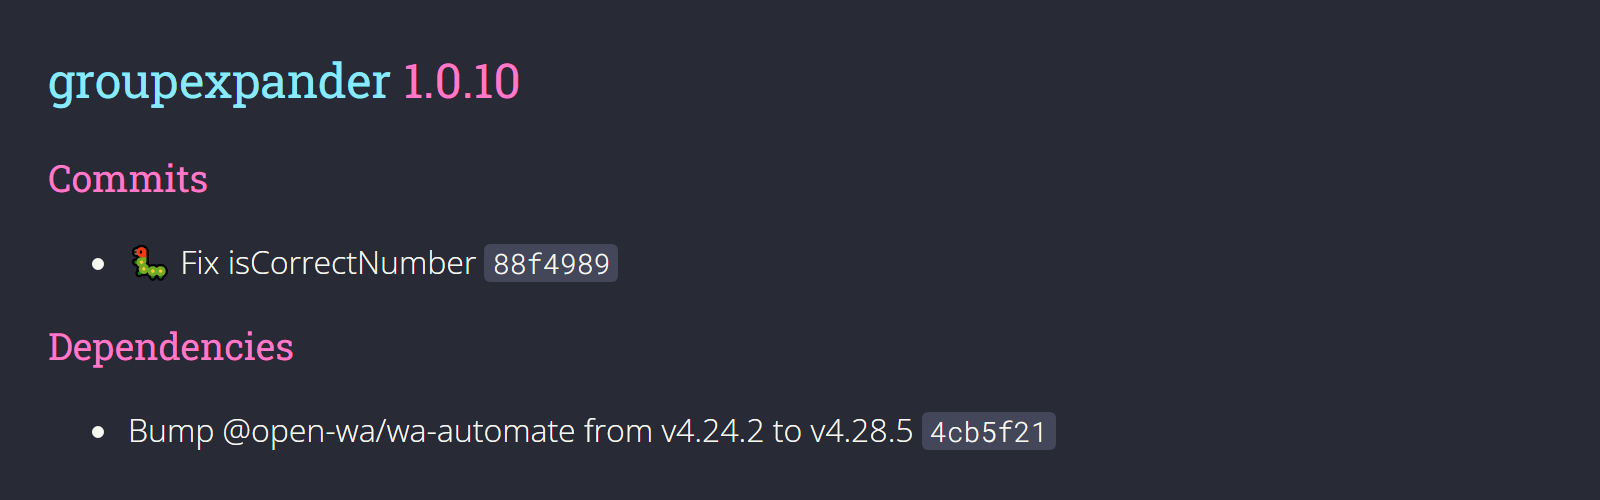
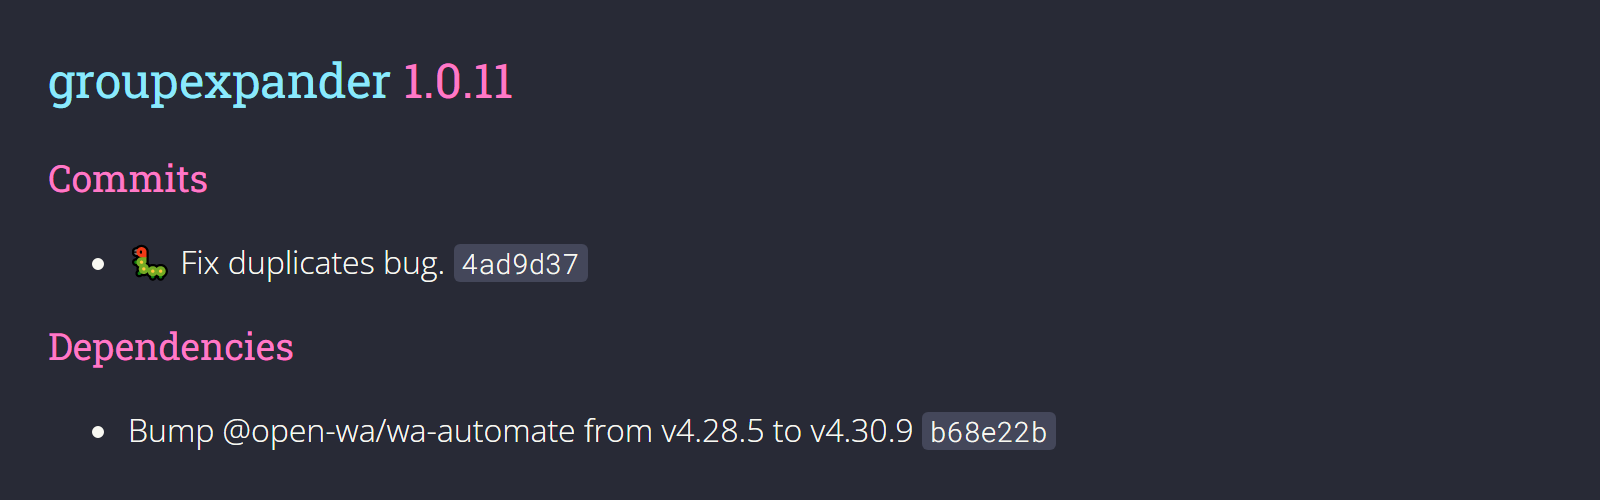
Release 1.0.11

diff --git a/CHANGELOG.md b/CHANGELOG.md
@@ -7,13 +7,27 @@ and this project adheres to [Semantic Versioning](https://semver.org/spec/v2.0.0
 
 Generated by [`auto-changelog`](https://github.com/CookPete/auto-changelog).
 
-## [1.0.10](https://github.com/eyalmichon/group-expander/compare/1.0.9...1.0.10)
+## [1.0.11](https://github.com/eyalmichon/group-expander/compare/1.0.10...1.0.11)
 
 
 
 
 ### Commits
 
+- 🐛 Fix duplicates bug. [`4ad9d37`](https://github.com/eyalmichon/group-expander/commit/4ad9d377396f0ca5757365ac3918a2a45b5fba25)
+
+### Dependencies
+
+- Bump @open-wa/wa-automate from v4.28.5 to v4.30.9 [`b68e22b`](https://github.com/eyalmichon/group-expander/commit/b68e22bfc529a14faafb5befc1689db031382830)
+
+## [1.0.10](https://github.com/eyalmichon/group-expander/compare/1.0.9...1.0.10) - 2022-01-04
+
+
+
+
+### Commits
+
+- Release 1.0.10 [`087e83a`](https://github.com/eyalmichon/group-expander/commit/087e83adde48066b56ce0a614e8750b2f834f746)
 - 🐛 Fix isCorrectNumber [`88f4989`](https://github.com/eyalmichon/group-expander/commit/88f4989e7018631776bf97b51e1fd88f23fbcc26)
 
 ### Dependencies
